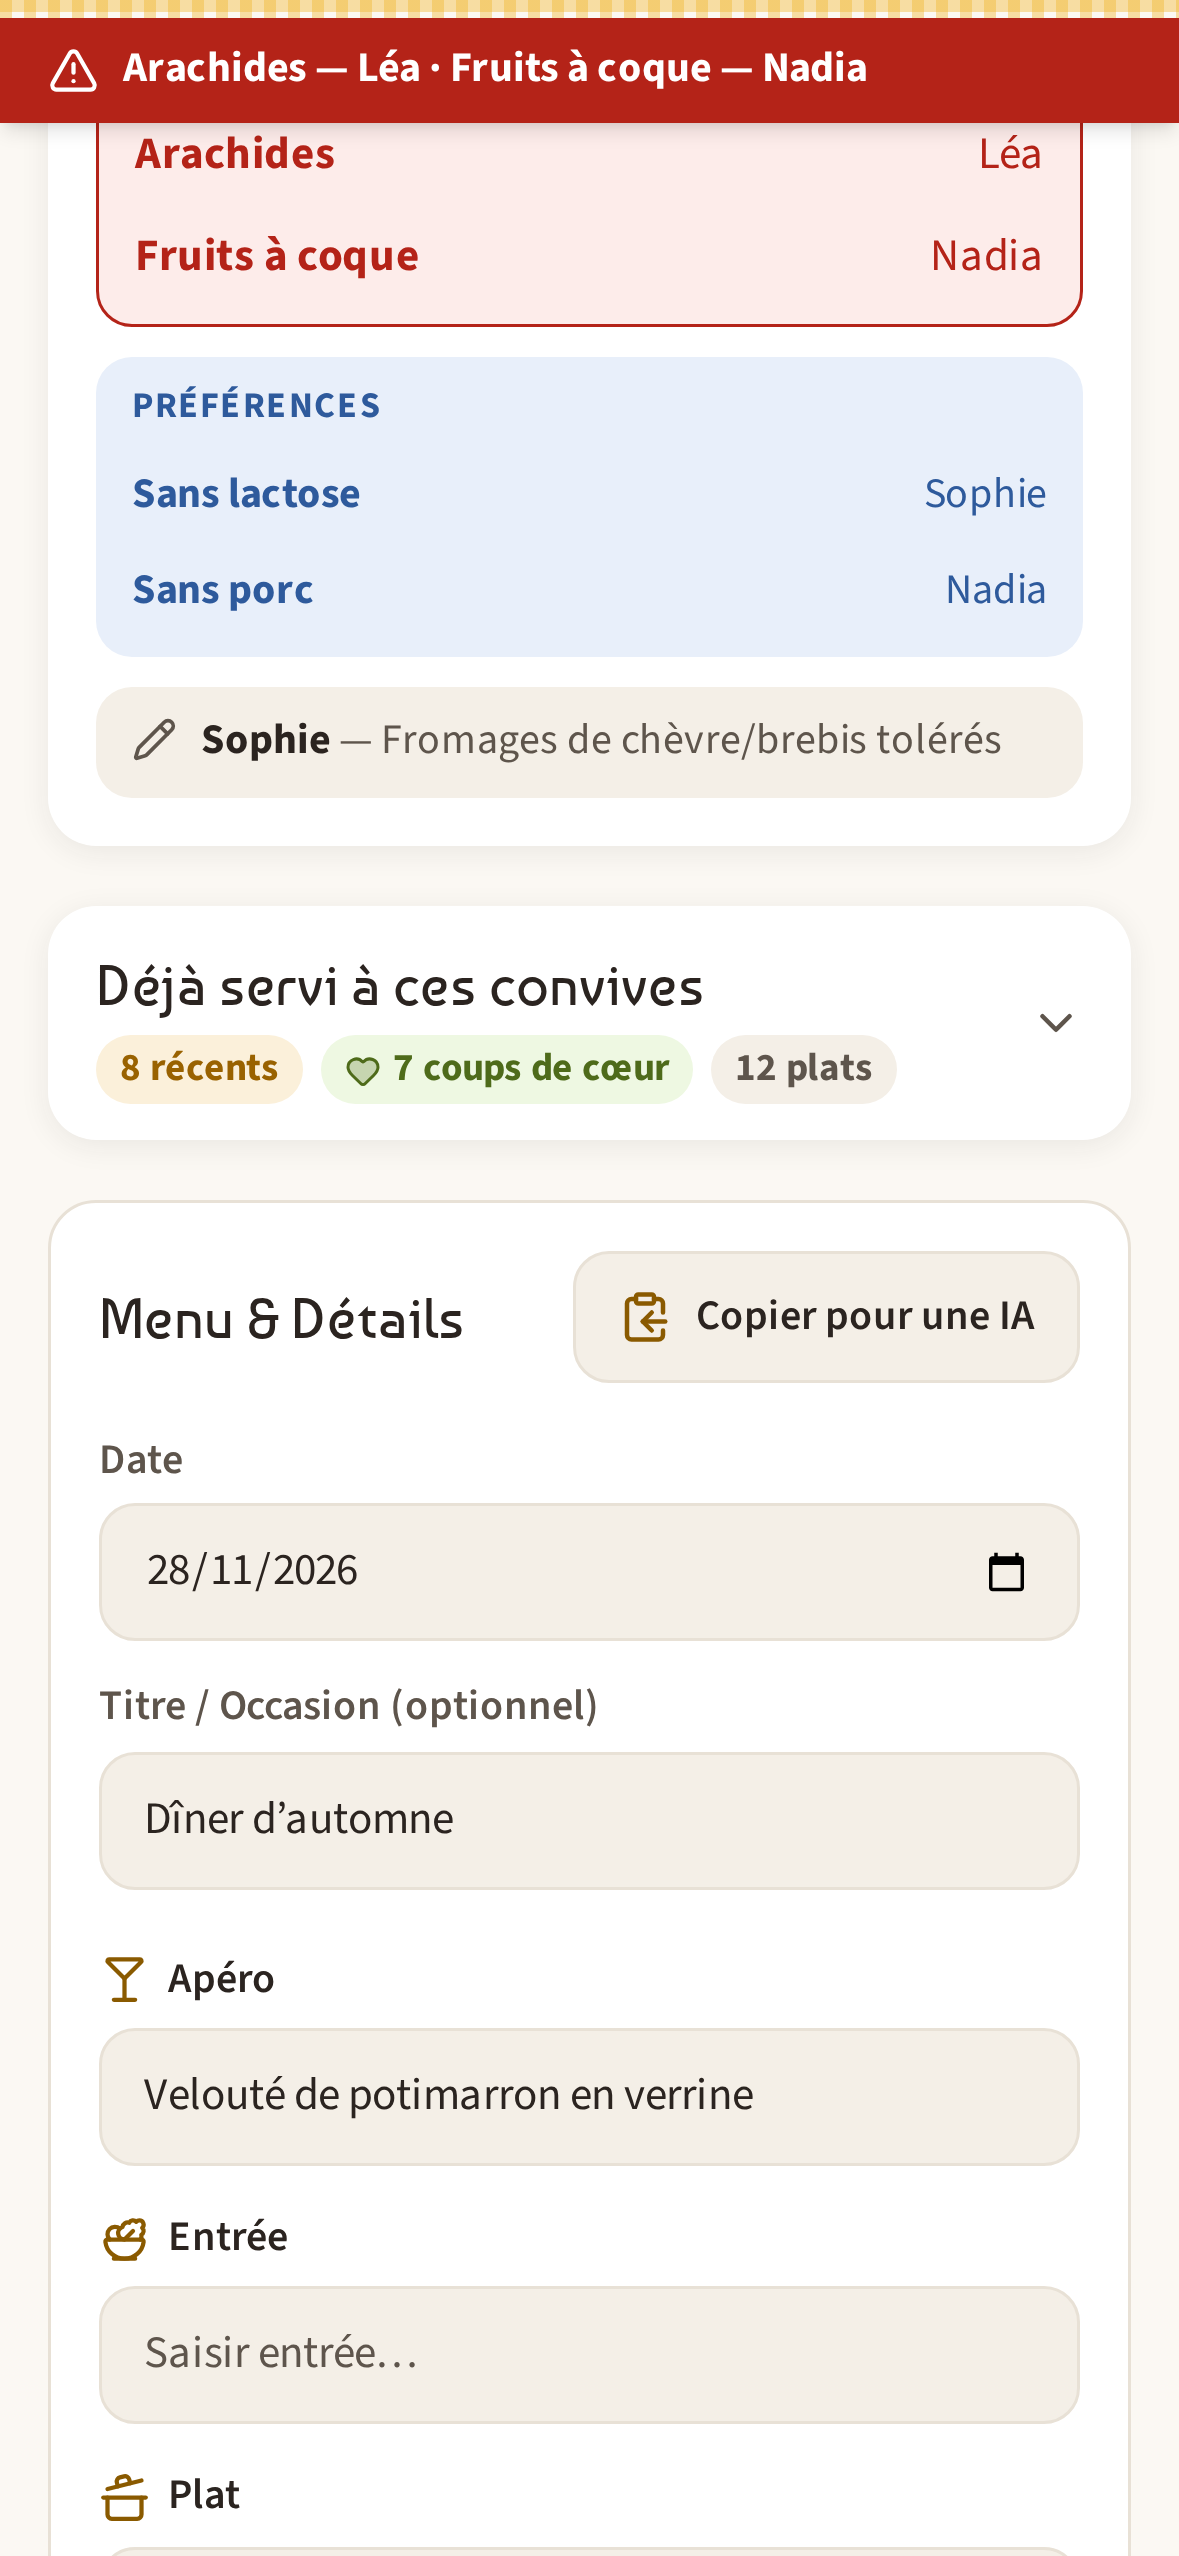
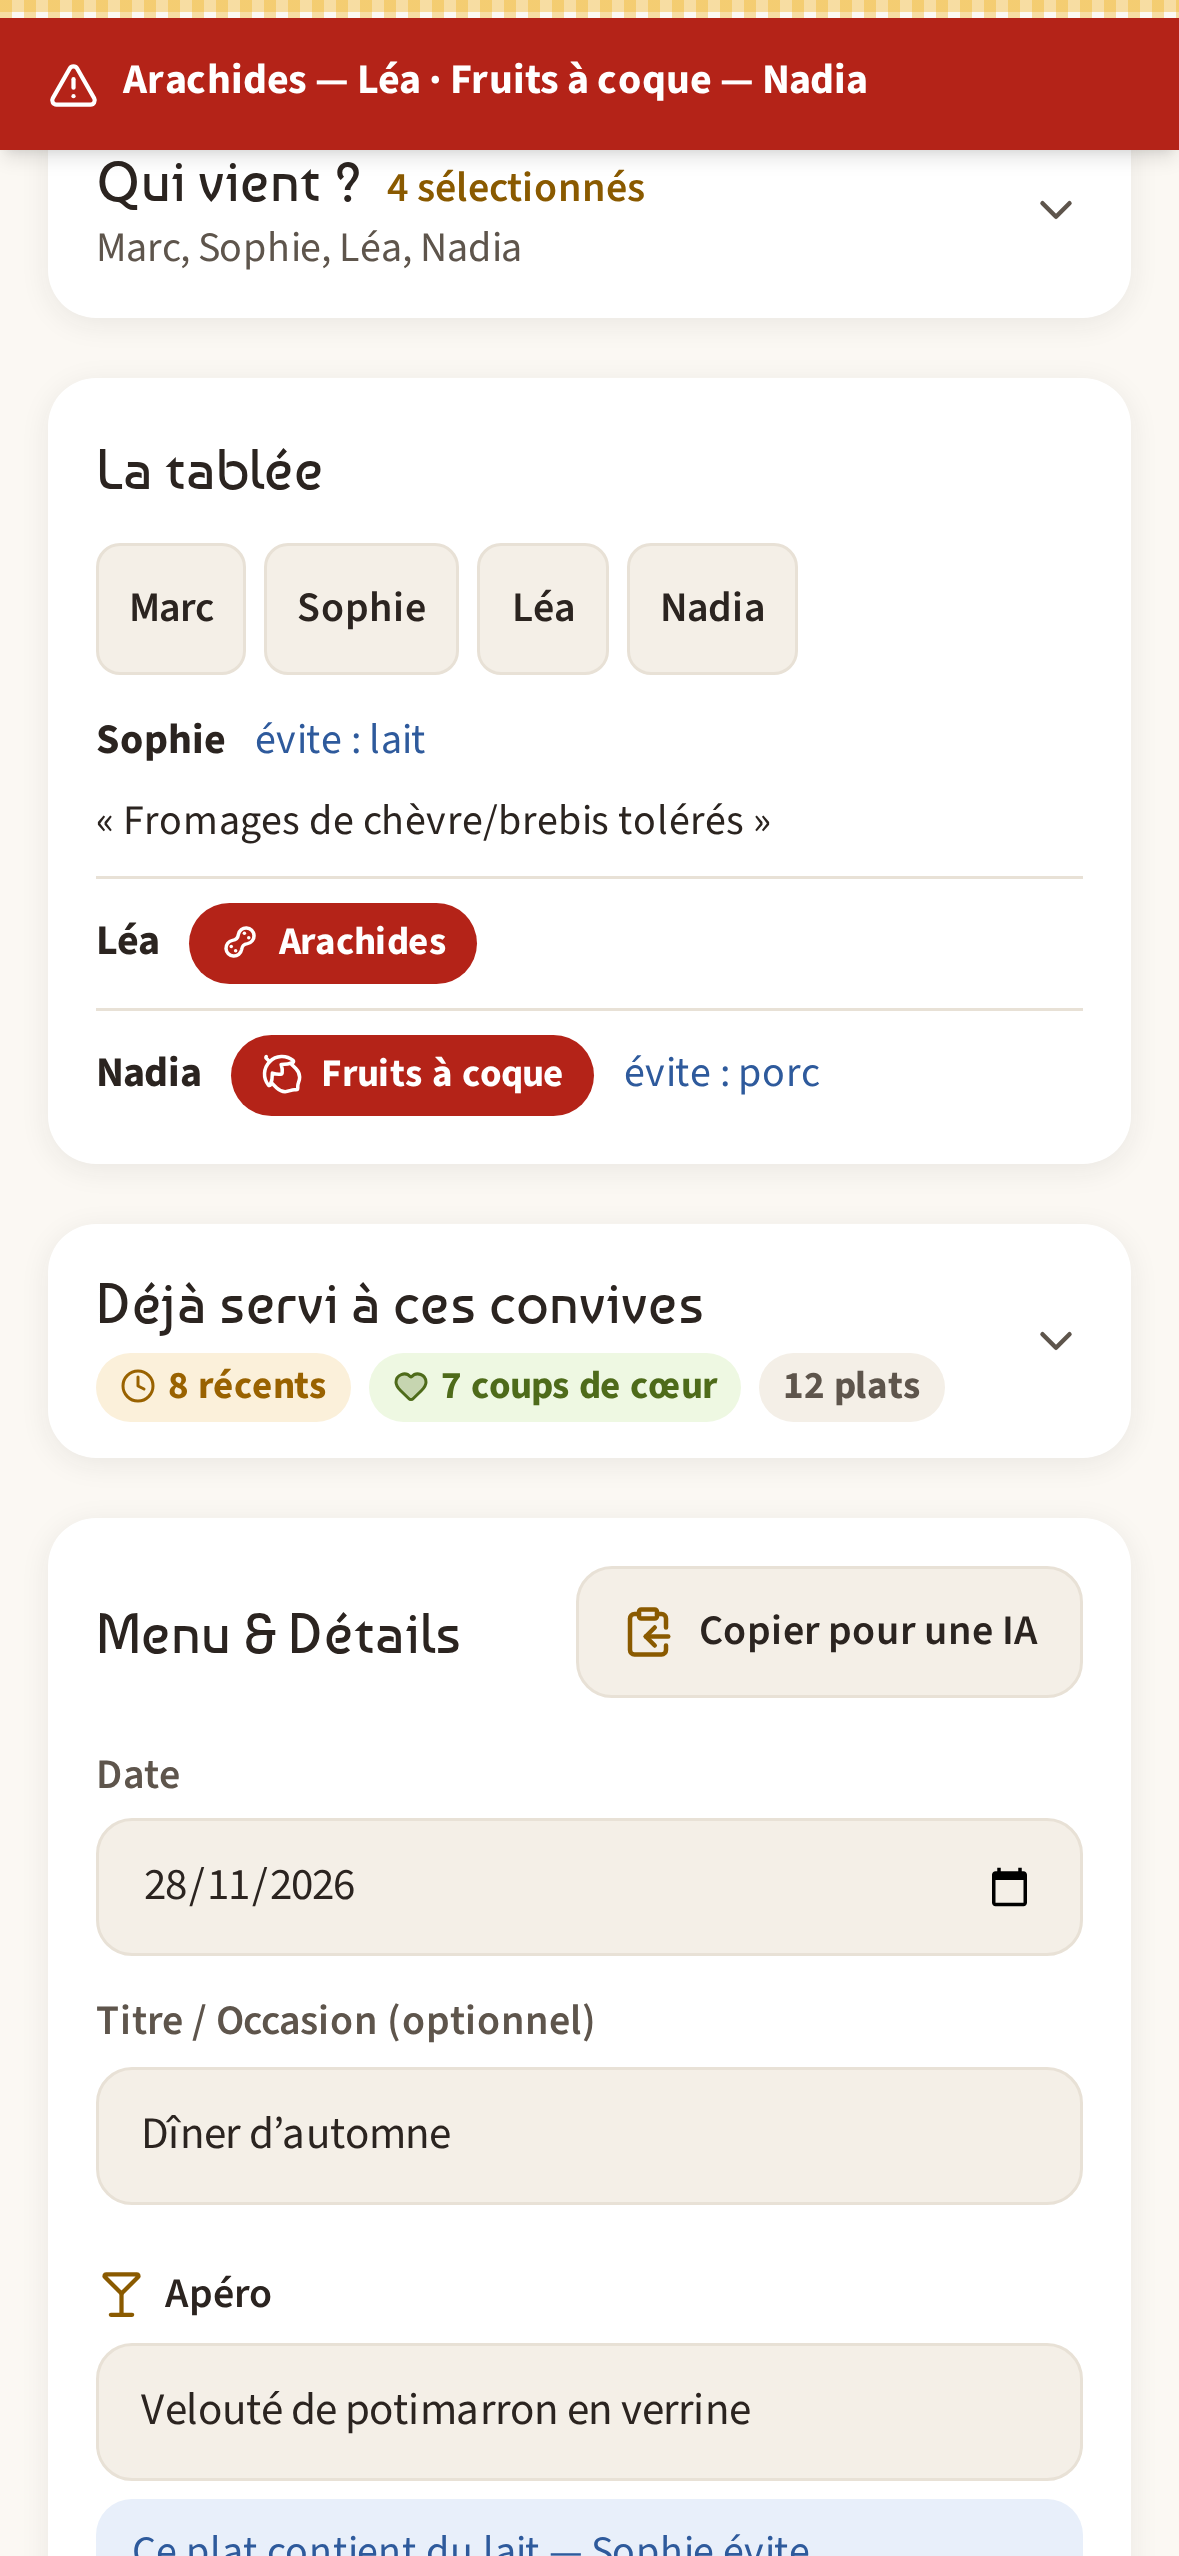
docs: contraintes propres à chaque personne, captures du site
CLAUDE.md (persistance v2, contraintes par personne), README, texte
alternatif et captures du site régénérées (la capture de l'invitation
montre « La tablée » en entier).

Claude-Session: https://claude.ai/code/session_01KvtoHjzUCqsDePoqLcJbyi

diff --git a/site/index.html b/site/index.html
@@ -88,27 +88,27 @@
           <li class="etape">
             <div class="capture-cadre">
               <img class="capture" src="/captures/convives.png" width="393" height="852" loading="lazy" draggable="false"
-                alt="Écran Convives d’Attablés : la famille Martin avec Léa (allergie stricte aux arachides), Marc (aucune contrainte) et Sophie (sans lactose, fromages de chèvre et de brebis tolérés), puis le foyer Paul &amp; Julie avec Julie (végétarienne, évite les plats trop épicés) et Paul (allergie stricte aux crustacés).">
+                alt="Écran Convives d’Attablés : la famille Martin avec Léa (allergie aux arachides, pastille rouge), Marc (aucune contrainte) et Sophie (évite le lait, pastille bleue, avec une note), puis le foyer Paul &amp; Julie avec Julie (végétarien, avec une note) et Paul (allergie aux crustacés, pastille rouge).">
             </div>
             <div class="etape-texte">
               <h3>Vos convives, rangés par foyer</h3>
-              <p>Notez chaque convive et regroupez-les par foyer pour inviter toute une famille d’un geste. Les allergies strictes (arachides, crustacés, gluten…) sont distinguées des simples préférences, avec une note libre pour les nuances.</p>
+              <p>Notez chaque convive et regroupez-les par foyer pour inviter toute une famille d’un geste. Chacun a sa propre liste de ce qu’il ne mange pas : les allergies (arachides, crustacés, gluten…) sont distinguées de ce qu’il évite, avec une note libre pour les nuances.</p>
             </div>
           </li>
           <li class="etape">
             <div class="capture-cadre">
               <img class="capture" src="/captures/invitation.png" width="393" height="852" loading="lazy" draggable="false"
-                alt="Écran d’une invitation : en haut, les allergies strictes de la tablée (arachides pour Léa, fruits à coque pour Nadia), les préférences (sans lactose pour Sophie, sans porc pour Nadia) et la note de Sophie sur les fromages ; en dessous, la liste « Déjà servi à ces convives », où le houmous de betterave, la salade niçoise et les lasagnes aux légumes grillés portent la mention « Récent (il y a 26 jours) » et l’avis « Coup de cœur ».">
+                alt="Écran d’une invitation : un bandeau rouge rappelle les allergies de la tablée (arachides pour Léa, fruits à coque pour Nadia) ; en dessous, « La tablée » détaille chaque personne : Sophie évite le lait et note qu’elle tolère les fromages de chèvre et de brebis, Léa est allergique aux arachides, Nadia aux fruits à coque et évite le porc. Plus bas, « Déjà servi à ces convives » annonce 8 plats récents, 7 coups de cœur et 12 plats.">
             </div>
             <div class="etape-texte">
               <h3>L’invitation, toute la tablée d’un coup d’œil</h3>
-              <p>Cochez qui vient&nbsp;: leurs contraintes sont réunies, les allergies strictes en tête. Juste en dessous, Attablés liste ce que ces convives ont déjà mangé et signale ce qui leur a été servi récemment.</p>
+              <p>Cochez qui vient&nbsp;: les allergies de chacun sont rappelées en tête, puis détaillées personne par personne. Juste en dessous, Attablés liste ce que ces convives ont déjà mangé et signale ce qui leur a été servi récemment.</p>
             </div>
           </li>
           <li class="etape">
             <div class="capture-cadre">
               <img class="capture" src="/captures/memoire.png" width="393" height="852" loading="lazy" draggable="false"
-                alt="Fiche du convive Paul : allergie stricte aux crustacés, puis « Plats déjà mangés » (8 plats), dont le houmous de betterave, la salade niçoise et les lasagnes aux légumes grillés, notés « Coup de cœur », servis le 18/10/2026 chez moi.">
+                alt="Fiche du convive Paul : allergie aux crustacés, puis « Plats déjà mangés » (8 plats), dont le houmous de betterave, la salade niçoise et les lasagnes aux légumes grillés, notés « Coup de cœur », servis le 18/10/2026 chez moi.">
             </div>
             <div class="etape-texte">
               <h3>La mémoire des plats</h3>

diff --git a/CLAUDE.md b/CLAUDE.md
@@ -38,9 +38,9 @@ Le guide complet Android/Debian (SDK/NDK, icônes, keystore, tag, `fdroid build`
 
 **Aucun backend, aucun réseau.** Le shell Rust (`src-tauri/src/lib.rs`) ne fait que lancer la WebView et enregistrer `tauri-plugin-opener` ; aucune commande Tauri n'est exposée et la capability se limite à `core:default` + `opener:allow-open-url` limité à `https://attables.biovibralyon.fr/*` (lien Notes de version) ; ne rien ouvrir d'autre. Seul pont natif : l'interface JavaScript `AttablesAndroid` (une méthode `barresSysteme(sombre)`, locale, sans réseau), ajoutée par `MainActivity.onWebViewCreate` pour régler la couleur des icônes des barres système selon le thème de l'appli ; à préserver si le projet Android est régénéré, comme `signingConfigs`. Même obligation pour la ligne `webView.settings.textZoom = (fontScale * 100)` du même `onWebViewCreate` : l'appli suit la taille de police d'Android sans plafond, donc **aucune hauteur fixe pour l'en-tête et les barres** (`min-h-*`, jamais `h-*`) : `useHauteurMesuree` écrit leur hauteur réelle dans `--hauteur-entete` / `--hauteur-barre` (et `--hauteur-fab`, `--hauteur-bandeau`), que lisent les classes de `src/index.css` (`.pt-below-header`, `.bottom-above-*`…) ; les textes essentiels passent à la ligne au lieu de `truncate`. Toute la logique vit dans le frontend TypeScript. Ne pas ajouter de dépendance réseau, de télémétrie ni de SDK tiers : l'app est publiée sur F-Droid sans permission `INTERNET` (à retirer de `src-tauri/gen/android/app/src/main/AndroidManifest.xml` après `tauri android init`).
 
-**État unique dans `App.tsx`.** Un seul objet `AppData` (`src/types/models.ts`) contient foyers, convives, tags de contraintes, invitations et réglages. `App.tsx` détient le `useState<AppData>`, tous les handlers CRUD, et le transmet aux écrans (`InvitationsTab`, `ConvivesTab`, `InvitationEditor`, `SettingsModal` → `SettingsScreen`) via props ; pas de contexte ni de store externe. Un `useEffect` persiste l'intégralité de `AppData` à chaque changement.
+**État unique dans `App.tsx`.** Un seul objet `AppData` (`src/types/models.ts`) contient foyers, convives (chacun avec ses propres contraintes), invitations, fiches de plats et réglages. `App.tsx` détient le `useState<AppData>`, tous les handlers CRUD, et le transmet aux écrans (`InvitationsTab`, `ConvivesTab`, `InvitationEditor`, `SettingsModal` → `SettingsScreen`) via props ; pas de contexte ni de store externe. Un `useEffect` persiste l'intégralité de `AppData` à chaque changement.
 
-**Persistance** (`src/services/storage.ts`) : `localStorage` sous la clé `attables_db_v1`. Premier lancement ou JSON illisible → données d'exemple (`createSampleData`). `migrateAndValidateAppData` sert à la fois au chargement et à la restauration d'une sauvegarde `.json` : tout nouveau champ de `AppData` doit y être normalisé (valeur par défaut), et un changement de structure incompatible implique d'incrémenter `CURRENT_DATA_VERSION` et d'ajouter la migration.
+**Persistance** (`src/services/storage.ts`) : `localStorage` sous la clé `attables_db_v1`. Premier lancement ou JSON illisible → données d'exemple (`createSampleData`). `migrateAndValidateAppData` sert à la fois au chargement et à la restauration d'une sauvegarde `.json` : tout nouveau champ de `AppData` doit y être normalisé (valeur par défaut), et un changement de structure incompatible implique d'incrémenter `CURRENT_DATA_VERSION` et d'ajouter la migration. Version des données : 2 (chaque `Convive` porte ses `contraintes`, plus de liste partagée de tags) ; une sauvegarde ou un stockage v1 est migré par `migrateAndValidateAppData`, et `preparerExport` écrit la sauvegarde `.json` avec les champs v1 en plus (`contraintes`, `contraintesIds`, éléments des aliments libres dans les plats) pour rester lisible par les anciennes versions de l'appli.
 
 **Mode démo** (`pnpm build:demo`, `MODE_DEMO` = `import.meta.env.MODE === 'demo'`) : `creerStockage(demo)` recharge les exemples à chaque visite et n'écrit **jamais** dans `localStorage` ; la démo s'ouvre en thème clair forcé. Le build normal et l'APK gardent la persistance ci-dessus.
 
@@ -53,7 +53,7 @@ Le guide complet Android/Debian (SDK/NDK, icônes, keystore, tag, `fdroid build`
 - Les plats sont comparés via `normalizeForCompare` (insensible à la casse, aux accents, œ/æ) ; `formatDishInput` normalise l'affichage.
 - `settings.prescriptionMois` (1–60, défaut 6) sépare « servi récemment » de « peut revenir ».
 - Verdict d'un plat = `menuVerdicts[course]` sinon `verdict` global de l'invitation.
-- Contraintes : tags `strict` (allergies, alertes fortes) vs `preference`, plus note libre par convive (`aggregateConstraints`).
+- Contraintes : propres à chaque personne (`Convive.contraintes`, plus note libre), de niveau `strict` (affiché « Allergie », alertes fortes) ou `preference` (affiché « Évite »), avec des identifiants d'allergènes ou un aliment libre `autre:<Libellé>` ; regroupées par aliment pour le bandeau, la carte et le texte pour une IA (`aggregateConstraints`). Un plat sans allergène renseigné (ni « Aucun de ces allergènes », `sansAllergene`) est signalé dans l'éditeur ; « servi récemment » prend l'horloge, jamais le ⚠, réservé aux allergies.
 - `buildAiPromptMarkdown` génère le prompt pour une IA externe, **anonymisé par défaut** (pas de prénoms ni d'hôte ; les notes libres y figurent telles quelles) ; préserver cette garantie et cette formulation dans les textes (site, appli, stores, `PRIVACY_POLICY.md`).
 
 **Navigation Android** : `useAndroidBack(active, onBack)` empile chaque vue/modale/sheet ouverte dans `history` pour que le bouton Retour ferme l'overlay du dessus plutôt que de quitter l'app. Toute nouvelle modale ou vue plein écran doit l'utiliser ; toute modale ou feuille utilise aussi `usePiegeFocus` (focus sur le titre, Tab bouclé, focus rendu à la fermeture, reste de la page masqué aux lecteurs d'écran par `aria-hidden` tant qu'elle est ouverte : React ne doit donc jamais piloter `aria-hidden` sur un élément de premier niveau d'un écran, le poser sur un conteneur intérieur comme pour les boutons flottants). Les feuilles et confirmations utilisent le voile `.voile-feuille` et le panneau `.panneau-feuille` (`src/index.css`) : elles restent entre les deux barres Android, où la nappe passe au-dessus du voile et reste identique. Contrat des vues plein écran (onglets, éditeur, Réglages) : chacune porte exactement un `h1[data-titre-vue]` avec `tabIndex={-1}` (cible du focus à l'ouverture et de repli) ; toute ouverture de l'éditeur ou des Réglages passe par `ouvrirVue` (`App.tsx`), qui mémorise la place et la cible `data-focus-cle` restaurées au retour sur les onglets, et `history.scrollRestoration` reste à `'manual'`. `useAutoHideChrome` masque l'en-tête/la barre d'onglets au défilement.

diff --git a/README.md b/README.md
@@ -13,7 +13,7 @@
 
 - **Suivi des invitations** : distinction entre repas *Prévus* et *Réalisés*, filtres par hôte (*Chez moi / Chez les autres*) et par statut, passage rapide en *Réalisée*, action **Réinviter ce groupe** en un geste.
 - **Annuaire par foyers & convives** : regroupement par foyer avec pavés couleur/pictogramme pour cocher toute une famille en un clic, fiches détaillées avec historique complet des repas et plats déjà servis.
-- **Allergies strictes & préférences** : tags paramétrables distinguant les interdits stricts (alertes visuelles dédiées) des préférences, plus un rappel automatique des allergies strictes au-dessus de la saisie du menu.
+- **Allergies & aliments évités, personne par personne** : la fiche de chaque convive porte ses propres allergies (alertes visuelles dédiées) et ce qu’il évite (intolérances, régimes, goûts), avec des aliments libres au besoin ; rappel automatique des allergies de la tablée au-dessus de la saisie du menu, et signalement d’un plat dont les allergènes ne sont pas renseignés.
 - **Mémoire anti-doublon intelligente** :
   - Seuls les repas *Réalisés* alimentent la mémoire.
   - **Prescription temporelle** paramétrable dans les réglages (6 mois par défaut) : alerte forte *« Servi récemment »* vs mention douce *« peut revenir »*.
